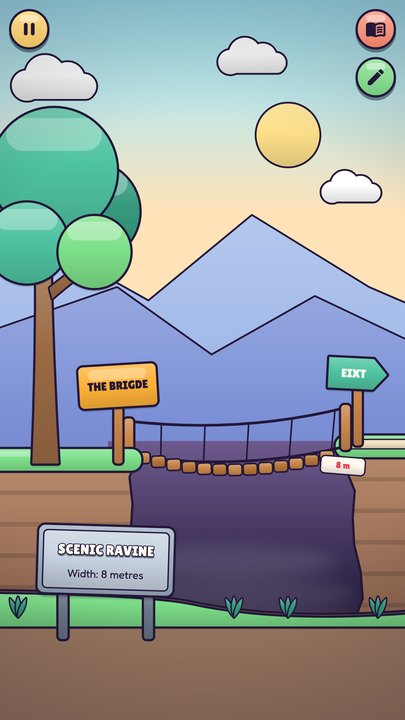
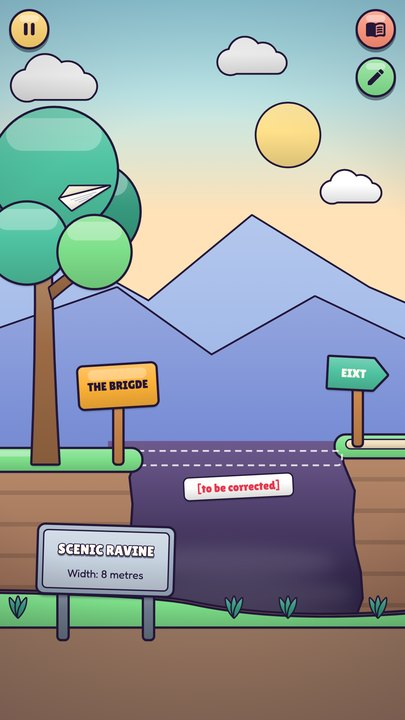
The Game Manual: screenshot e testi senza soluzioni degli enigmi

Changed region(s): [[0.2963, 0.55, 0.9185, 0.7028], [0.1481, 0.2444, 0.2667, 0.3056]]

diff --git a/il-manuale/index.html b/il-manuale/index.html
@@ -4,9 +4,9 @@
 <meta charset="utf-8">
 <meta name="viewport" content="width=device-width, initial-scale=1, viewport-fit=cover">
 <title>The Game Manual — The manual lies. Rewrite it.</title>
-<meta name="description" content="The Game Manual (Il Manuale del Gioco) is a comedy point-and-click adventure where your only tool is the instruction booklet of a game that was never released. Cut out its pictures, swap its words, rewrite its rules. 15 chapters, in English and Italian.">
+<meta name="description" content="The Game Manual (Il Manuale del Gioco) is a comedy point-and-click adventure where your only tool is the instruction booklet of a game that was never released. 15 chapters, in English and Italian.">
 <meta property="og:title" content="The Game Manual">
-<meta property="og:description" content="The manual lies. Cut it out, rewrite it and save the game.">
+<meta property="og:description" content="The manual lies. Read it carefully, then rewrite it.">
 <meta property="og:image" content="https://mrseo88.github.io/il-manuale/img/og.jpg">
 <meta name="theme-color" content="#123a52">
 <link rel="icon" href="img/icon.png">
@@ -120,7 +120,7 @@
         <h1 class="logo">The Game Manual</h1>
         <p class="sub ink">Il Manuale del Gioco</p>
         <p class="tag">The manual lies. <em>Rewrite it.</em></p>
-        <p class="lede">GRAND ADVENTURE DELUXE was meant to be the most awaited game of 1996. It never came out. All that's left is its instruction booklet, and whatever is written in it comes true. No START button? It's drawn on page 1: cut it out. A door is FORBIDDEN? Swap the word.</p>
+        <p class="lede">GRAND ADVENTURE DELUXE was meant to be the most awaited game of 1996. It never came out. All that's left is its instruction booklet, and whatever is written in it comes true. A missing button, an erased bridge, a door that won't open: the answer is always somewhere in the pages.</p>
         <div class="cta">
           <span class="btn btn-soon">
             <svg viewBox="0 0 24 24" aria-hidden="true"><path fill="currentColor" d="M4 2.6c-.3.3-.5.8-.5 1.4v16c0 .6.2 1.1.5 1.4l9.2-9.4L4 2.6Zm10.6 10.8 2.6 2.6-11 6.3 8.4-8.9Zm4-4.2 2.7 1.5c.9.5.9 1.9 0 2.4l-2.8 1.6-2.8-2.9 2.9-2.6ZM6.2 1.7l11 6.3-2.6 2.6-8.4-8.9Z"/></svg>
@@ -129,17 +129,17 @@
         </div>
       </div>
       <div class="phone">
-        <img src="img/1-start.jpg" alt="Page 1 of the manual: the START button is drawn on the page, ready to be cut out" width="405" height="720">
+        <img src="img/1-title.jpg" alt="The title screen of GRAND ADVENTURE DELUXE, with an empty space where the START button should be" width="405" height="720">
       </div>
     </div>
 
     <section>
       <h2 class="ink">How to play</h2>
       <div class="how">
-        <div class="card"><div class="n">1</div><h3>Cut it out</h3><p>Drag a picture out of the manual and it becomes real: a START button, a key, a fan.</p></div>
-        <div class="card"><div class="n">2</div><h3>Rewrite the rules</h3><p>Crooked words come loose. Swap <span class="hi">FORBIDDEN</span> for <span class="hi">RECOMMENDED</span> and the world obeys.</p></div>
-        <div class="card"><div class="n">3</div><h3>Fix the misprints</h3><p>Rotate, resize and duplicate pictures with the typographic arrows. Erase red corrections.</p></div>
-        <div class="card"><div class="n">4</div><h3>Step inside</h3><p>Hold pages to the light, tear them out, fall into a footnote, travel by the index.</p></div>
+        <div class="card"><div class="n">1</div><h3>Open the manual</h3><p>Every chapter starts with something that doesn't work. The manual always knows why.</p></div>
+        <div class="card"><div class="n">2</div><h3>Cut it out</h3><p>What's drawn in the manual isn't just a picture. Not always.</p></div>
+        <div class="card"><div class="n">3</div><h3>Rewrite the rules</h3><p>Crooked words come loose. What's written is what's <span class="hi">true</span>.</p></div>
+        <div class="card"><div class="n">4</div><h3>Think, don't guess</h3><p>Every puzzle has a reason. Stuck? The Pencil leaves hints in the margin.</p></div>
       </div>
     </section>
 
@@ -147,12 +147,12 @@
       <h2 class="ink">A manual full of mistakes</h2>
       <div class="shots-scroll">
         <div class="shots">
-          <img src="img/1-start.jpg" alt="The START button is drawn in the manual: cut it out" loading="lazy" width="405" height="720">
-          <img src="img/2-ravine.jpg" alt="The Scenic Ravine: the bridge is as long as the number on page 7" loading="lazy" width="405" height="720">
-          <img src="img/3-hero.jpg" alt="The Hero, assembled with his head on backwards, on the test platform" loading="lazy" width="405" height="720">
-          <img src="img/4-archive.jpg" alt="The Narrator's archive, with a page read against the light" loading="lazy" width="405" height="720">
-          <img src="img/5-glossary.jpg" alt="The glossary: swap a definition and the guard dog becomes a cake" loading="lazy" width="405" height="720">
-          <img src="img/6-footnote.jpg" alt="Inside a footnote: giant letters and a fallen asterisk" loading="lazy" width="405" height="720">
+          <img src="img/1-title.jpg" alt="Chapter 1: the title screen, with no START button" loading="lazy" width="405" height="720">
+          <img src="img/2-ravine.jpg" alt="Chapter 2: the Scenic Ravine, where someone erased the bridge" loading="lazy" width="405" height="720">
+          <img src="img/3-workshop.jpg" alt="Chapter 3: the Assembly Workshop, with a Hero's head on a shelf" loading="lazy" width="405" height="720">
+          <img src="img/4-archive.jpg" alt="Chapter 4: the Narrator's dark archive and the forbidden cabinet" loading="lazy" width="405" height="720">
+          <img src="img/5-guard.jpg" alt="Chapter 8: the guardhouse, with a guard dog, a siren and a gate" loading="lazy" width="405" height="720">
+          <img src="img/6-box.jpg" alt="Chapter 9: the back of the game box and the recommended-age turnstile" loading="lazy" width="405" height="720">
         </div>
       </div>
     </section>
